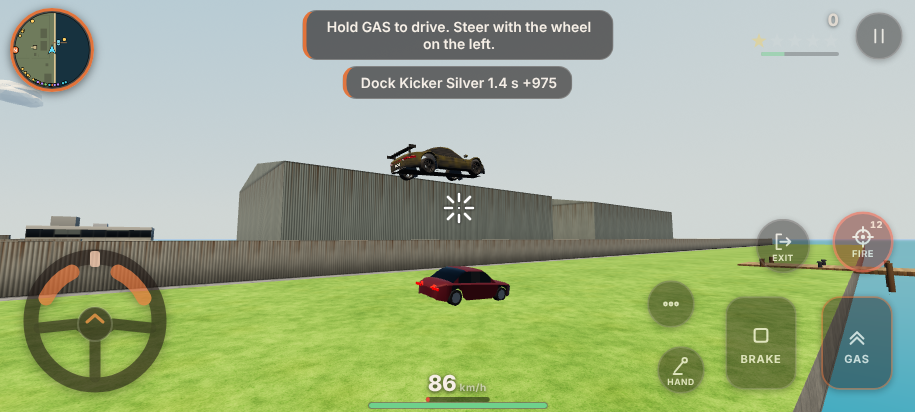
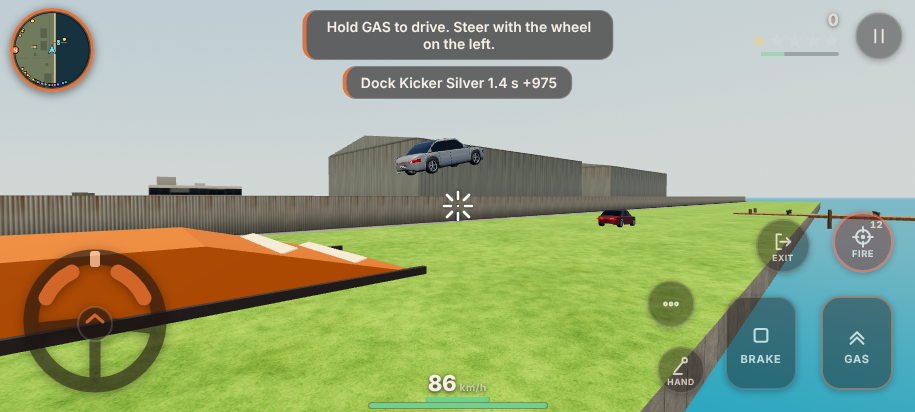
[wip] Save in-progress feature work
Claude-Session: https://claude.ai/code/session_018iGo17mtLFKMHzBd1Cq3Kh

diff --git a/src/systems/stunts.js b/src/systems/stunts.js
@@ -238,8 +238,9 @@ export function createStunts(game, opts = {}) {
       for (let i = 0; i < vs.length; i++) {
         const v = vs[i];
         const m = v && v.mesh;
-        if (!m || !(v.airPitch || v.airRoll)) continue;
-        tiltMesh(m, v.heading, v.airPitch || 0, v.airRoll || 0);
+        if (!m) continue;
+        if (v.airPitch || v.airRoll) tiltMesh(m, v.heading, v.airPitch || 0, v.airRoll || 0);
+        else if (m.rotation.order === 'YZX') m.rotation.order = 'XYZ'; // back to the mesh's own order
       }
     },
     dispose() {

diff --git a/docs/COMBAT.md b/docs/COMBAT.md
@@ -100,12 +100,31 @@ when killed. Actor cap is 40 (36 + the 4 bodies).
   a wreck can flip over (half or full turn, `tRollEnd`) and stays flipped
   until removed. `craft.y` carries the height, so hit tests follow;
 - people the blast kills get `ky` (3.5 to 12 m/s up), `spinV` and tumble
-  (`spin`, read by `layDown`), then lie where they land;
+  as a ragdoll (see "Ragdolls" below), then lie where they land;
 - props: combatfx throws up to 5 small chunks from `city.furniture`
   (bins, benches, hydrants) within 1.2 r (the static street meshes stay).
 Blast size by craft (`craftBlast`): car 8 (heavy car 9), tank 12 x1.5,
 fighter 11 x1.3, other plane 10 x1.3, heli 10 x1.2. `explosion` carries
 `radius`, `size`, `scale` and `puff` for audio and effects.
+
+## Ragdolls
+`src/core/ragdoll.js` (pure; drawing in `src/render/ragdoll.js`, called by
+`layDown`). Knocked down by `blast` or `ram` (never the player, never
+bullets or melee): the actor gets a slot from a pool of `RAGDOLL_MAX` = 12;
+when all are busy the old fall pose is used. One rigid body (centre at the
+hips, 0.9 m) with velocity, yaw, pitch (+PI/2 on the back) and roll,
+gravity and a ground clamp at the body's lowest point, one small bounce,
+ground friction and a spring that topples it flat; ten limb angles on
+under-damped springs lag the spin and get kicked on impact. It settles
+`RAG_T` = 0.8 s after first touching down (at most 2 x RAG_T, 3 s overall);
+then `ragDone`, `ragYaw`, `ragPitch` keep the lying pose and the slot is
+freed. While live it writes `x`, `z` (body centre), `y` (lowest point),
+`ky` and `spin`; walls push it back and it stops at the shoreline. Start
+spin comes from the push in the body's frame; a blast adds `ky` and spins
+it the same way. A car hit (`ram`, RAM_MIN 4 m/s): thrown up
+`RAM_THROW_UP + RAM_THROW_PER x speed` (1.2 + 0.32 per m/s, cap 8) with
+`RAM_CARRY` = 0.6 of the car's velocity, turning head first over the
+bonnet. Own seeded stream (`seed ^ 0x2a6d`). `resetActor` clears it.
 
 ## Burning and explosions
 Craft below 25% health burn (`burning` on): lose 3% of max per s and
@@ -219,7 +238,7 @@ and sparks.
 
 ## Caps (phone)
 Actors 40 (peds 22, crew 8, officers 4, bodies 4, player); projectiles 24;
-live explosions 4; burning craft 4; scorch decals 24 (one instanced
+live explosions 4; burning craft 4; tumbling ragdolls 12; scorch decals 24 (one instanced
 mesh); tracers 32 and sparks in the existing effect pools. combatfx
 adds at most 4 draw calls. No per-shot allocation. Target step time
 under 2 ms in a 20-actor fight on the phone.

diff --git a/docs/STATUS.md b/docs/STATUS.md
@@ -249,3 +249,31 @@ None critical or high.
   check, so it is unchanged. Wet-road lamp reflections already existed in
   daynight.js; rain spray in effects.js is a bit stronger and adds droplets
   in heavy rain. Aircraft are not pushed by wind yet.
+
+## 2026-11-20: ragdoll tumbles and stunt jumps
+- Ragdolls (`src/core/ragdoll.js`, pure, `test/ragdoll.test.js`): a person
+  killed by a blast or hit by a car tumbles: one rigid body under gravity
+  with a ground clamp, a bounce, and ten loose limb springs that lag the
+  spin; it topples flat and settles about 0.8 s after touching down, then
+  the pose is baked onto the actor and the slot freed. At most 12 tumble
+  at once (the rest use the old fall pose). Own seeded stream, so fights
+  stay deterministic. A car at speed throws the person up over the bonnet
+  (up speed 1.2 + 0.32 per m/s of car speed, cap 8). Drawn by the existing
+  person mesh through `src/render/ragdoll.js`, hooked in `layDown`.
+- Stunt jumps (`src/world/stunts.js`, `src/core/stunt.js`,
+  `src/systems/stunts.js`, `test/stunts.test.js`): four tabletop ramps on
+  quiet streets (Fernside, Pale Shore, Cinder Row) and two at the airfield
+  dock (Dock Kicker on the quay, Dock Splash in the water for boats),
+  placed from the seeded city. Violet ramp icon on the map and minimap and
+  a violet start pillar beside each ramp. Brake in the air for a backflip,
+  steer for a barrel roll. Points from air time, distance, height, flips
+  and rolls; medals at 450 / 900 / 1500 points, saved per ramp in
+  `progress.medals` and best points in `score.courses`. Wrecked, crashed
+  into a wall, sideways or roof landings score nothing. Ramp jumps no
+  longer also count as generic airtime.
+- Screenshots: docs/preview/ragdoll-bonnet.png, docs/preview/stunt-jump.png
+  (`node scripts/stunt-shots.mjs`).
+- Not done: bikes do not exist in the game, so only cars and boats jump;
+  traffic cars also fly off the street ramps (no score for them); ramps
+  have no collision from the side, a car driving into one side-on passes
+  through it.

diff --git a/docs/SPEC.md b/docs/SPEC.md
@@ -90,3 +90,24 @@ Rain lowers grip (down to 72 percent in a downpour), adds slight
 understeer, lengthens stops and trims top speed above rain 0.6. Strong wind
 (above 5 m/s) gently pushes light cars and boats, at most 0.9 m/s squared.
 Thick fog cuts the distance police can spot you to 45 percent.
+
+## Stunt jumps
+Six ramps: four on quiet streets (picked from the seeded city, at least
+240 m apart, never downtown or on avenues) and two at the airfield dock (a
+quay ramp for cars and a floating ramp for boats). Each is a tabletop
+(slope up, flat top, slope down) so it works both ways, and shows as a
+violet ramp icon on the map. A car or boat that crests the slope faster
+than about 23 km/h flies. In the air, brake pulls the nose up into a
+backflip and steering rolls; hands off, the nose follows the flight path
+and the wings level, so a plain jump lands on its wheels. On landing a
+toast shows the ramp name, the medal, the air time and any flips and the
+points, which go straight into the score:
+
+    points = 400 per second of air + 10 per metre + 40 per metre of height
+             + 700 per flip + 500 per roll   (no score under 0.35 s)
+    bronze 450, silver 900, gold 1500
+
+A fast run is silver; add a flip or a roll for gold. Medals are kept per
+ramp and only ever go up. A wrecked car, a crash into a wall in the air,
+or landing more than 50 degrees off upright (sideways or on the roof)
+scores nothing; a bad landing also damages the car. No money.
